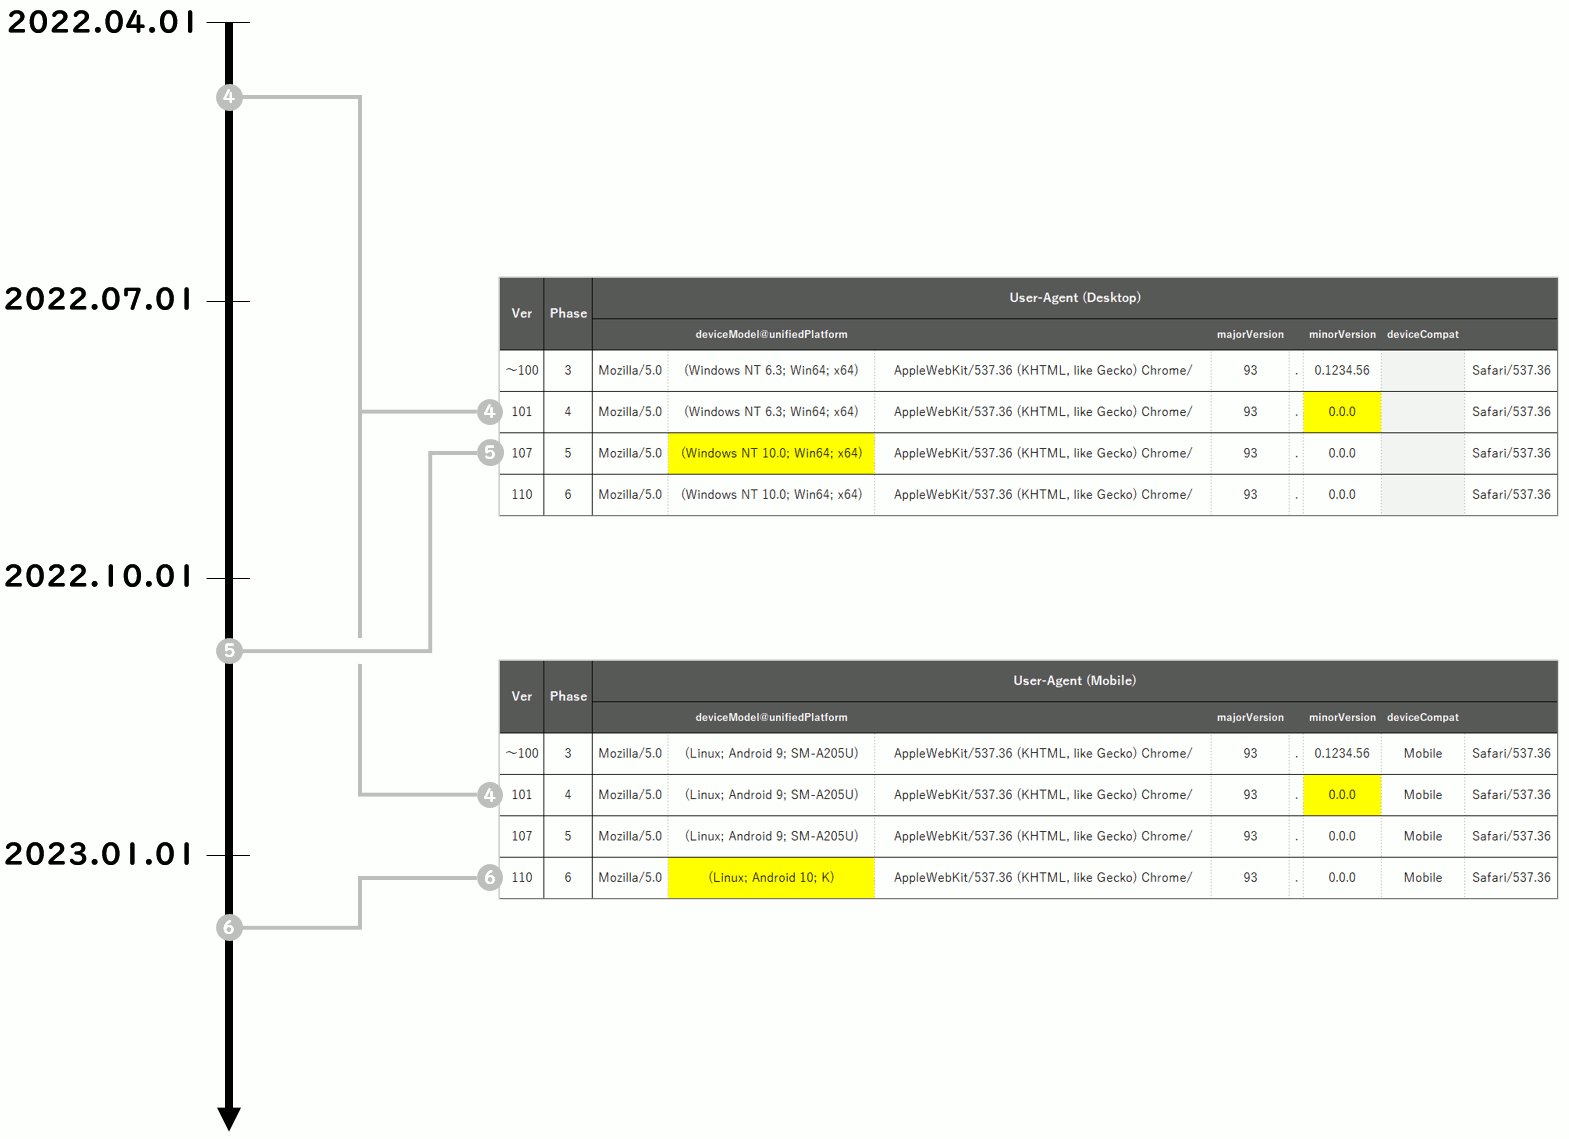
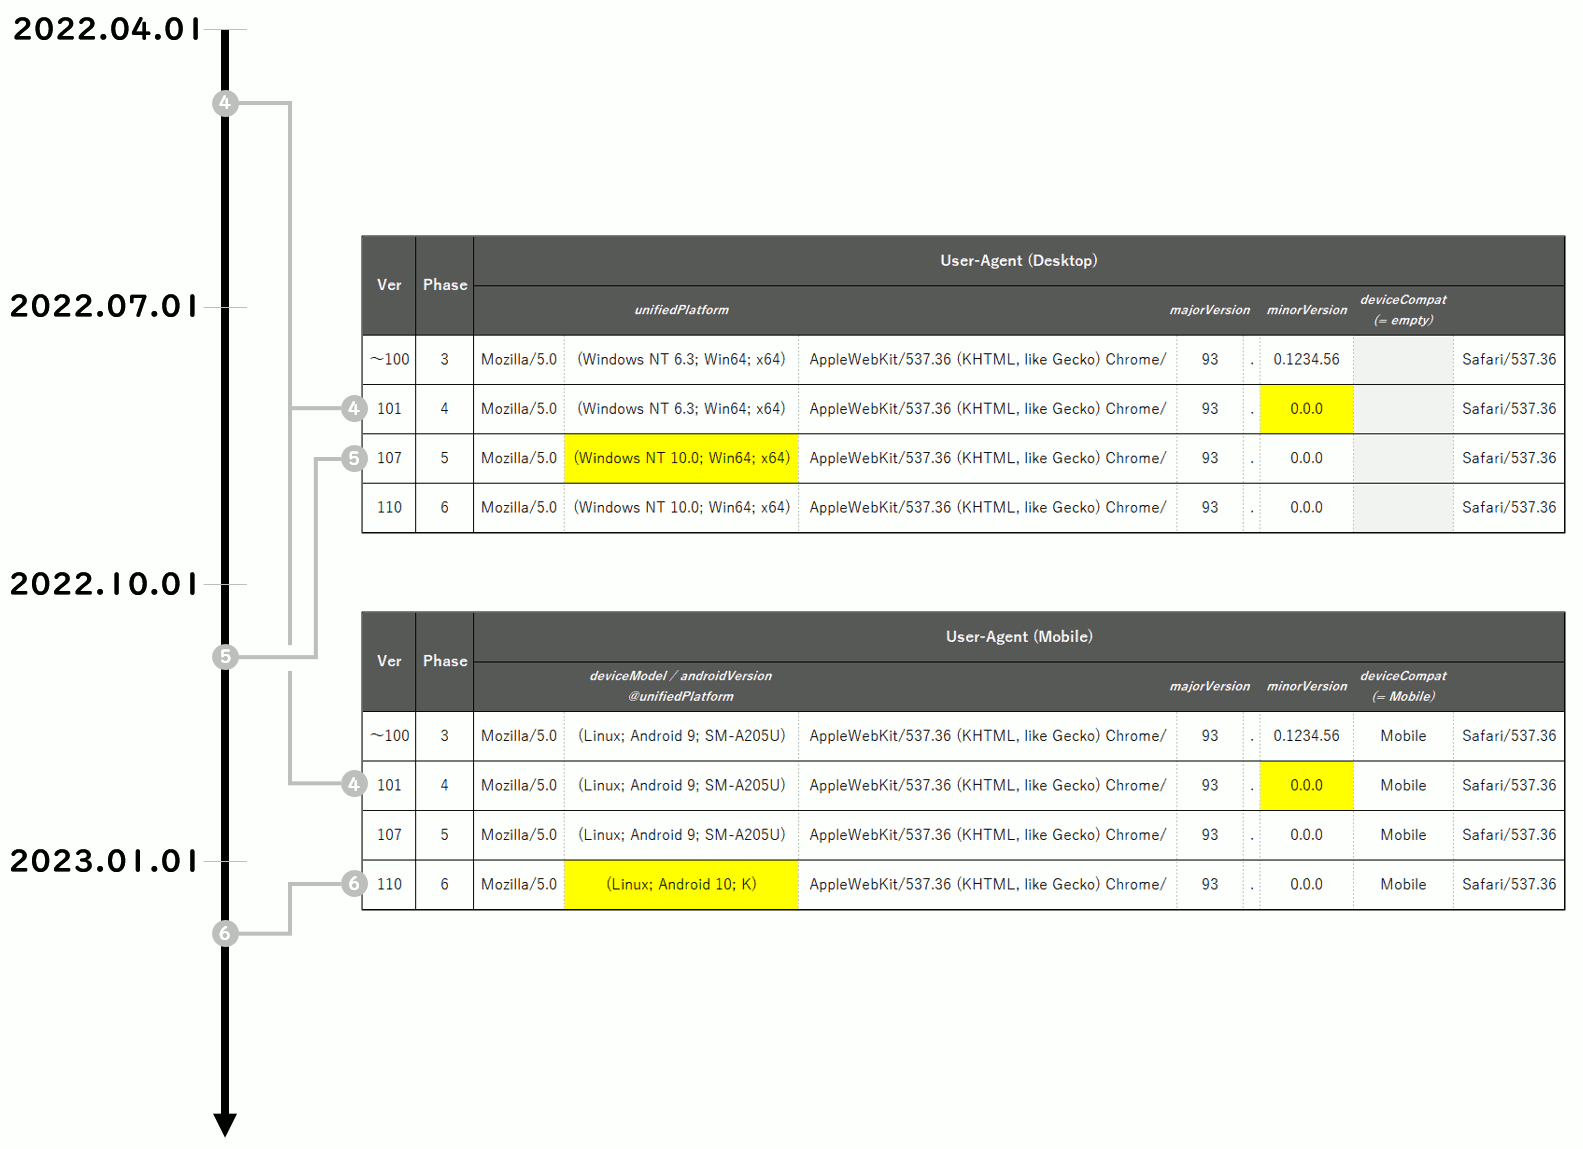
added

Changed region(s): [[0.0, 0.0, 0.9994, 1.0]]

diff --git a/UA-CH/readme.md b/UA-CH/readme.md
@@ -32,30 +32,37 @@ Mozilla/5.0 (Windows NT 6.3; Win64; x64) AppleWebKit/537.36 (KHTML, like Gecko) 
 
 あわせて高エントロピー故にユーザー追跡を可能にしてしまう問題 … 冒頭で述べた fingerprinting … を排除すること、がモチベーションだそうです。
 
-Google から [案内されている情報](https://www.chromium.org/updates/ua-reduction/) によればこのようなスケジュールで削除～凍結が進みます。
+Google から [案内されているスケジュール](https://www.chromium.org/updates/ua-reduction/) によれば、以下のタイミングで User-Agent 文字列（の黄色のセルで示した部分）は情報量を削減され、凍結されます。
 
 <img src='https://raw.githubusercontent.com/nakayama-kazuki/202x/main/UA-CH/i04.png' />
 
 ## いつ困ることになりそうか？
 
-既に過ぎさった
+過去の
 
 > In Phase 4 we change the <minorVersion> token to "0.0.0".
+
+および
+
 > In Phase 5 we change the <platform> and <oscpu> tokens from their platform-defined values to the relevant <unifiedPlatform> token value (which will never change).
 
 については、広告の例では不正判定や配信制御への影響は考えられるものの、肌感覚としてはそこまで大きな影響はなさそうです。
 
-一方でそれなりの影響がありそうなのは年明けの
+一方でそれなりの影響がありそうなのは年が明けてからの
 
 > In Phase 6, we change the <deviceModel> token to "K" and change the <androidVersion> token to a static "10" string.
 
-です。何故なら
+のタイミングとなります。
 
-- ***deviceModel*** はデモグラに対する説明力が高い<br />（例えば Disney Mobile は女性である可能性が高そう、など）
-- 上述したように ***deviceModel*** からキャリア判定を行うケースがある
+<img src='https://raw.githubusercontent.com/nakayama-kazuki/202x/main/UA-CH/i05.png' />
+
+ここで ***androidVersion*** が "10" に ***deviceModel*** が "K" に固定されてしまいます。そうなると …
+
+- ***deviceModel*** はデモグラに対する説明力が高い<br />（例えば Disney Mobile on docomo のユーザーは女性である可能性が高そう、など）
+- ***deviceModel*** からキャリア判定を行うケースがある
 - Mobile の ***androidVersion*** は Desktop の ***unifiedPlatform*** よりもブラックリスト制御やホワイトリスト制御に使われるケースが多い
 
-に対して影響が生じるためです。みなさまの Web アプリケーションへの影響はいかがでしょうか？
+に対して影響が生じることになります。みなさまの Web アプリケーションへの影響はいかがでしょうか？
 
 蛇足ですが Chrome 以外のブラウザについては 2022/09/08 現在では以下のような状況です。
 
